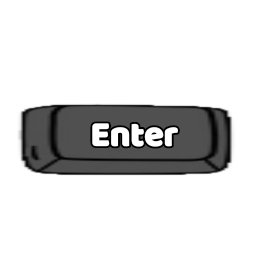
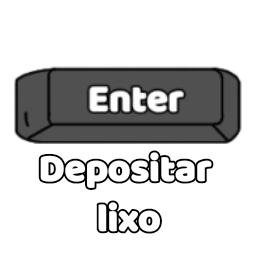
Tutorial page added

Changed region(s): [[0.0308, 0.2286, 0.9538, 0.6857], [0.3692, 0.7143, 0.6462, 0.8571]]

diff --git a/pages/tutorial/tutorial.html b/pages/tutorial/tutorial.html
@@ -1,0 +1,26 @@
+<!DOCTYPE html>
+<html lang="pt-br">
+<head>
+    <meta charset="UTF-8">
+    <meta name="viewport" content="width=device-width, initial-scale=1.0">
+    <title>Reciclakids - Tutorial</title>
+    <link rel="stylesheet" href="../../style.css">
+    <link rel="stylesheet" href="tutorial.css">
+</head>
+<body>
+    <div class="game-scene">
+        <div>
+              <img src="../../game_assets/lixeiras/lixeira_papel01.png" alt="lixeira de papel" class="bin">
+              <img src="../../game_assets/lixeiras/lixeira_plastico01.png" alt="lixeira de plástico" class="bin">
+              <img src="../../game_assets/lixeiras/lixeira_metal01.png" alt="lixeira de metal" class="bin">
+        </div>
+        <div>
+            <img src="../../game_assets/keyboards/setas.png" alt="teclas direcionais" class="keys">  
+            <img src="../../game_assets/keyboards/enter.png" alt="tecla enter" class="keys">      
+        </div>
+        <div class="menu-buttons">
+            <a href="../menu/menu.html"><button class="menu-btn btn-blue">VOLTAR</button></a>
+        </div>
+    </div>
+</body>
+</html>

diff --git a/pages/menu/menu.html b/pages/menu/menu.html
@@ -19,8 +19,8 @@
 
         <div class="menu-buttons">
             <a href="../phaseSelector/index.html"><button class="menu-btn btn-green">JOGAR</button></a>
-            <!-- <button class="menu-btn btn-blue">TUTORIAL</button>
-            <button class="menu-btn btn-yellow">AJUSTES</button> -->
+            <a href="../tutorial/tutorial.html"><button class="menu-btn btn-blue">TUTORIAL</button></a>
+            <!-- <button class="menu-btn btn-yellow">AJUSTES</button> -->
             <a href="../preload/index.html"><button class="menu-btn btn-orange">SAIR</button></a>
         </div>
     </div>

diff --git a/pages/tutorial/tutorial.css b/pages/tutorial/tutorial.css
@@ -1,0 +1,32 @@
+body {
+    margin: 0;
+    display: flex;
+    justify-content: center;
+    align-items: center;
+    min-height: 100vh;
+}
+
+.game-scene {
+    display: flex;
+    flex-direction: column;
+    align-items: center;
+    justify-content: center;
+    gap: 20px;
+}
+
+.row {
+    display: flex;
+    justify-content: center;
+    gap: 15px;
+}
+
+.bin, .keys {
+    width: 250px; 
+    object-fit: contain;
+}
+
+.menu-buttons {
+    display: flex;
+    flex-direction: column;
+    gap: 1rem;
+}
